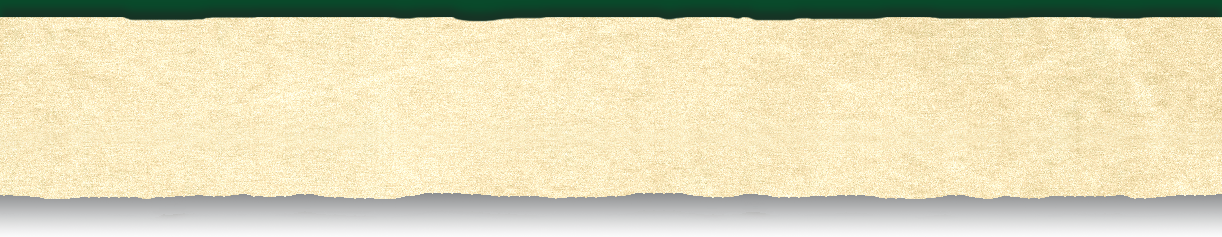
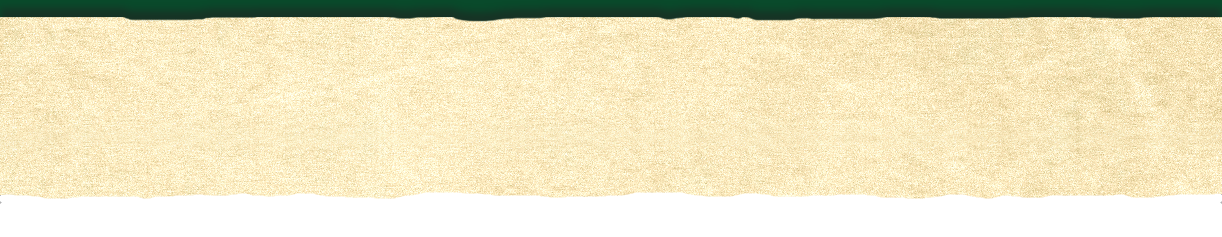
Header navigation styles, not many of these links make sense to me yet..

Changed region(s): [[0.0, 0.7975, 1.0, 0.9747]]

diff --git a/browser/style/app.less b/browser/style/app.less
@@ -12,13 +12,21 @@ body {
   margin: 0;
   padding: 0;
   .main {
-    background: url(/source/background.png);
+    min-width: 1024px;
+    background: url(/source/background.png) 20px 0;
     > .content {
+      top:-20px
+    }
+    > .content, .top-menu .content {
       position: relative;
       padding: 10px;
       width: 1024px;
       margin: 0 auto;
       background: url(/source/content-background.png);
+    }
+    .top-menu .content{
+      background: none;
+      padding-top:0;
     }
   }
 }
@@ -93,50 +101,80 @@ footer {
   }
 }
 
+.shadow {
+  -webkit-box-shadow: 0px 20px 41px -4px rgba(50, 50, 50, 1.74);
+  -moz-box-shadow: 0px 20px 41px -4px rgba(50, 50, 50, 1.74);
+  box-shadow: 0px 20px 41px -4px rgba(50, 50, 50, 1.74);
+  height: 20px;
+  position: relative;
+  top: -60px;
+}
+
 .top-menu {
   height: 237px;
-  border-bottom: 1px solid #D3CEAA;
-  background: #09492a url(/source/header-background.png) 0 10px repeat-x;
-  padding-top:10px;
+  border-top:10px solid #09492a;
+  background: url(/source/header-background.png) repeat-x;
+  text-align: right;
+  z-index: 1;
+  position: relative; 
 
   .logo {
     width: 302px;
     height: 151px;
     background: url(/source/logo.png) no-repeat;
     position: absolute;
-    left: 147px;
-    top: 39px;
+    left: 30px;
+    top: 34px;
   }
 
   .tabs {
+    font-size:14px;
     display: inline-block;
-    position: absolute;
-    margin-left: 10px;
-    padding-top: 9px;
-    a, a:visited {
-      margin-right: 5px;
-      padding: 8px 12px;
-      border-radius: 6px 6px 0 0;
-      text-decoration: none;
-      font-weight: normal;
+    position:relative;
+    top:75px;
+    a, a:visited, a:active {
+      color: #295c3e;
+      display:inline-block;
+      text-transform:uppercase;
+      font-weight:bold;
+
+      &:after {
+        content:'|';
+        margin:0 12px;
+      }
+      &:last-child:after {
+        content:'';
+        margin-right:0
+      }
     }
-    a.active {
-      color: darken(#D3CEAA, 20%);
-      background-color: #fff;
-      border: 1px solid #D3CEAA;
-      border-bottom: none;
+    a:hover {
+      text-decoration:underline;
     }
+    
+  }
+
+  .buttons {
+    position:relative;
+    top:100px;
     a {
-      color: lighten(#E7E8D1, 20%);
-      background-color: #D3CEAA;
-      border: 1px solid #E7E8D1;
-      border-bottom: none;
+      border:1px solid white;
+      background:#18510b;
+      display:inline-block;
+      padding:8px 12px;
+      color:white;
+      text-transform:uppercase;
+      font-weight:bold;
+      font-size:16px;
+      letter-spacing:1px;
+      min-width:130px;
+      text-align:center;
     }
   }
+
   .user {
     display: inline-block;
     position: absolute;
-    top:2px;
+    top:-8px;
     right: 10px;
     color:white;
     span:after {

diff --git a/browser/layoutComponent.js b/browser/layoutComponent.js
@@ -11,15 +11,19 @@ module.exports = function (model, contents) {
     return h('div#wrapper',
       h('div.main',
         h('div.top-menu',
-          h('div.logo'),
-          topMenuTabs(model),
-          authStatus(model.user)
+          h('div.content',
+            h('div.logo'),
+            authStatus(model.user),
+            topMenuTabs(model),
+            topMenuButtons(model)
+          )
         ),
         model.flash && (!(model.flash instanceof Array) || (model.flash.length > 0))
           ? h('div.top-flash.warning', renderFlash(model.flash),
               h('a.close', {onclick: function () { delete model.flash; }})
             )
           : undefined,
+        h('div.shadow'),
         h('div.content', contents)
       ),
       footer(model)
@@ -54,6 +58,28 @@ function topMenuTabs(model) {
   function routeTab(route, title) {
     return route.a({class: {active: route.active}}, title);
   }
+  var root = routes.root();
+
+  return h('div.tabs',
+    model.user
+      ? [
+        routeTab(routes.root(), 'Home'),
+        routeTab(routes.root(), 'Tutorial'),
+        routeTab(routes.root(), 'FAQ'),
+        routeTab(routes.root(), 'Contact'),
+      ]
+      : undefined
+  );
+}
+
+function topMenuButtons(model) {
+  var query = model.query();
+  var currentDocument = model.currentDocument();
+  var document = model.document;
+
+  function routeTab(route, title) {
+    return route.a({}, title);
+  }
 
   function authoringTab() {
     if (model.user.author) {
@@ -81,15 +107,14 @@ function topMenuTabs(model) {
     }
   }
 
-  var root = routes.root();
-
-  return h('div.tabs',
+  return h('div.buttons',
     model.user
       ? [
-        routeTab(routes.root(), 'Home'),
-        reportTab(),
-        authoringTab(),
-        adminTab()
+          h('a', {href: '#'}, 'Save'),
+          routeTab(routes.root(), 'Exit'),
+          reportTab(),
+          authoringTab(),
+          adminTab()
       ]
       : undefined
   );
